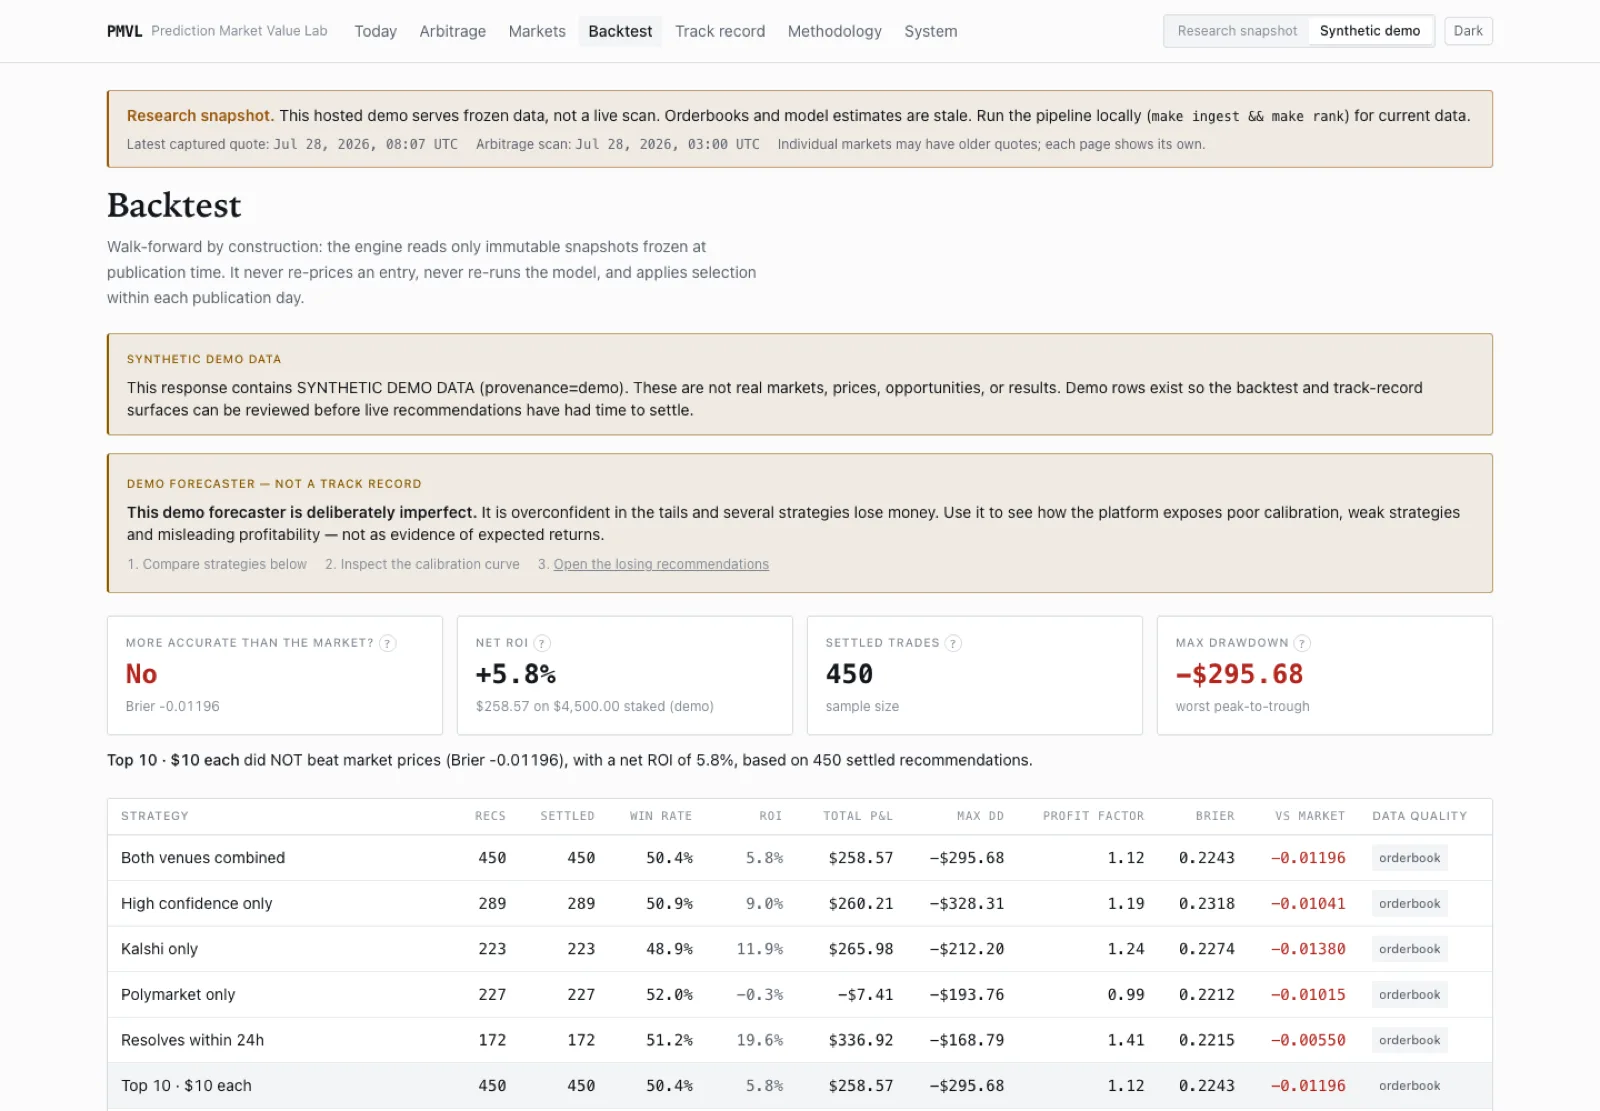
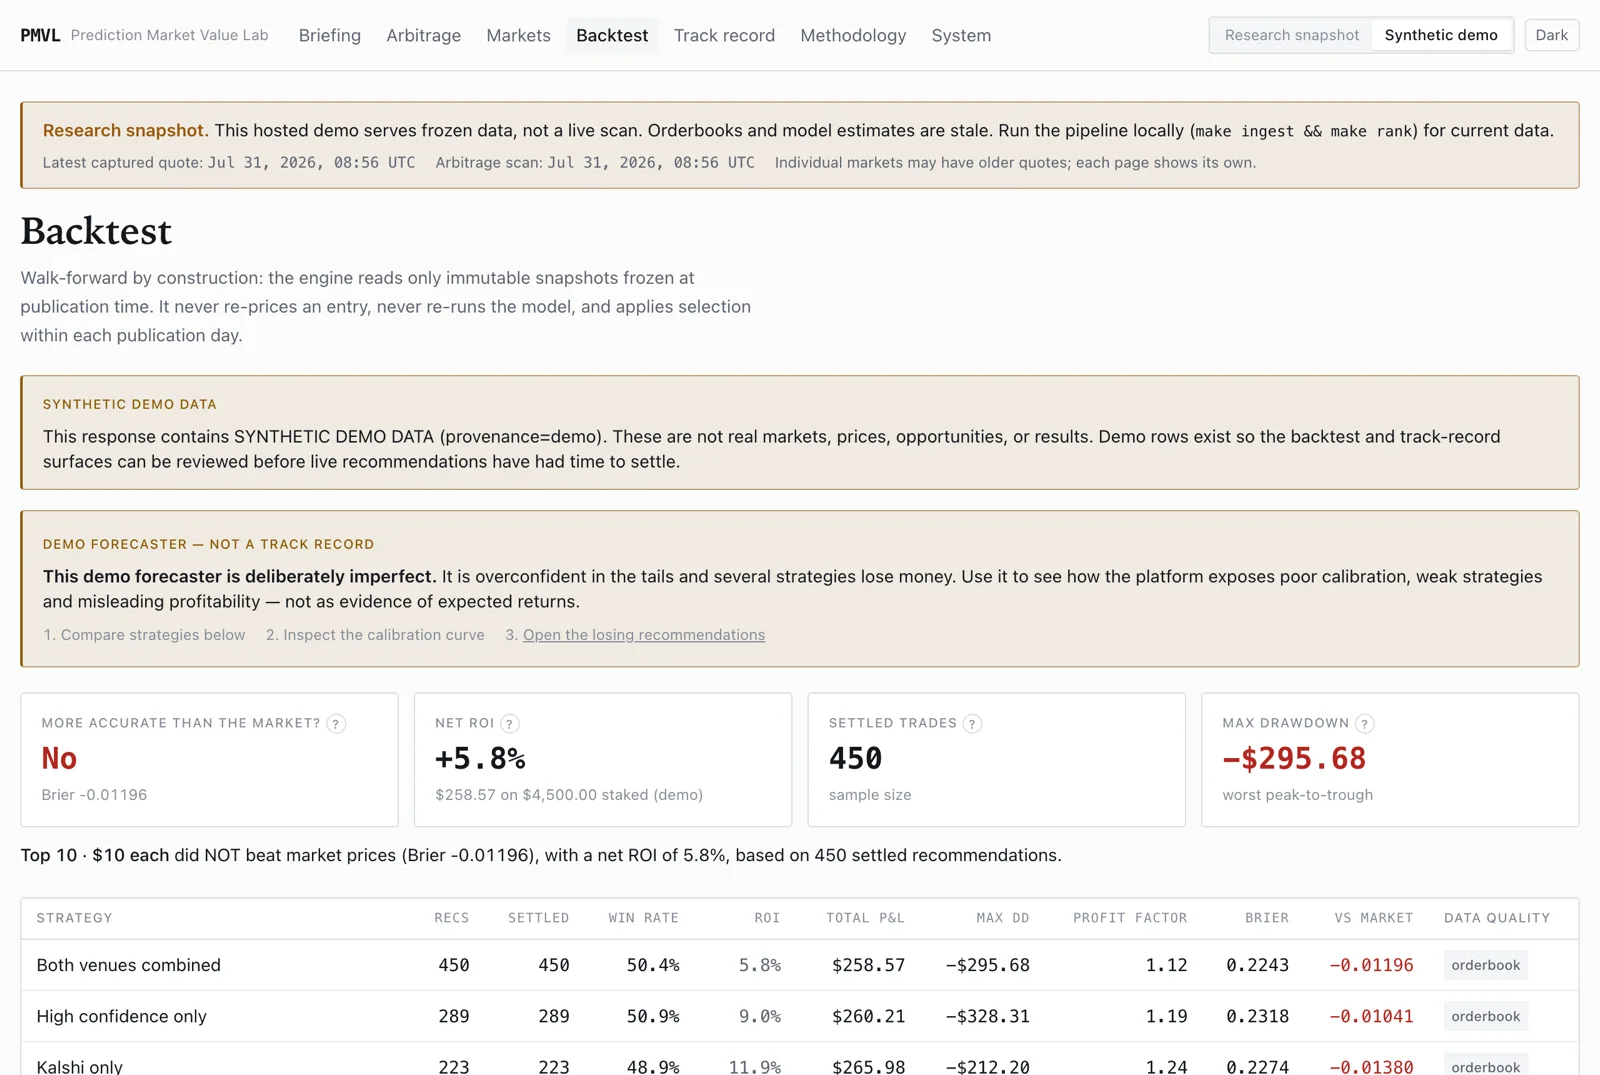
docs: capture homepage screenshots against the Preview build
The six product surfaces embedded in the marketing homepage were seeded from
the PR #8 production set, which predates this change: they showed the old "Today"
navigation label, the pre-move `/` briefing and a 1,858-market snapshot, and one
was a full-page portrait capture that unbalanced its row. They are recaptured
from the Preview at 615933d, all at 1280x860, so each image shows the surface it
names with current data and the navigation this branch ships.

Also adds the review set under docs/screenshots/pr-12: nineteen captures from
the same Preview across light and dark at desktop and mobile, including the
unconfigured-auth states, which are what a reviewer will actually see.

diff --git a/apps/web/app/(site)/page.tsx b/apps/web/app/(site)/page.tsx
@@ -265,8 +265,8 @@ function ProductSurfaces() {
             <ProductShot
               src="/product/briefing.webp"
               alt="The PMVL research briefing: a measurement band showing actionable, watchlist and disagreement counts, followed by ranked opportunity cards and a stage-by-stage filtering funnel."
-              width={997}
-              height={1600}
+              width={1600}
+              height={1075}
               priority
             />
           }
@@ -289,7 +289,7 @@ function ProductSurfaces() {
               src="/product/probability.webp"
               alt="A PMVL market detail page showing market-implied probability, the independent model estimate, its uncertainty interval and the conservative bound, alongside the order-book ladder."
               width={1600}
-              height={1111}
+              height={1075}
             />
           }
         />
@@ -310,7 +310,7 @@ function ProductSurfaces() {
               src="/product/actionable-diagnostics.webp"
               alt="The PMVL arbitrage page with its Actionable and Diagnostics views side by side, each row labelled with its arbitrage kind and risk flags."
               width={1600}
-              height={1143}
+              height={1075}
             />
           }
         />
@@ -332,7 +332,7 @@ function ProductSurfaces() {
               src="/product/markets.webp"
               alt="The PMVL markets table listing contracts from both venues with best bid and ask, spread, order-book depth in dollars, volume and resolution time."
               width={1600}
-              height={1111}
+              height={1075}
             />
           }
         />
@@ -353,7 +353,7 @@ function ProductSurfaces() {
               src="/product/backtest.webp"
               alt="A PMVL backtest page showing settled-bet counts, return, drawdown, Brier score against the market benchmark and a calibration curve."
               width={1600}
-              height={1111}
+              height={1075}
             />
           }
         />
@@ -375,7 +375,7 @@ function ProductSurfaces() {
               src="/product/system.webp"
               alt="The PMVL system page showing runtime mode, deployed commit, snapshot timing, per-job pipeline status and the list of upstream data sources."
               width={1600}
-              height={1111}
+              height={1075}
             />
           }
         />

diff --git a/docs/screenshots/pr-12/README.md b/docs/screenshots/pr-12/README.md
@@ -1,0 +1,36 @@
+# PR #12 review screenshots
+
+All captured from the Vercel Preview at commit `615933d`, against the API
+Preview at the same commit — not from a local dev server and not from
+production. Headless Chrome, `deviceScaleFactor: 2`, then downscaled to 1600px
+wide (1200 for the full-page shot).
+
+Billing and authentication are **not configured** on this Preview, so these show
+the honest unconfigured state: `/sign-in` explains that accounts are not enabled,
+`/account` redirects there, and pricing offers early access rather than checkout.
+
+| File | Route | Viewport | Theme |
+| --- | --- | --- | --- |
+| `home-hero-light-1440.png` | `/` | 1440×900 | light |
+| `home-hero-dark-1440.png` | `/` | 1440×900 | dark |
+| `home-full-light-1280.png` | `/` full page | 1280 | light |
+| `home-mobile-light-390.png` | `/` full page | 390×844 | light |
+| `pricing-light-1440.png` | `/pricing` | 1440 | light |
+| `pricing-dark-1440.png` | `/pricing` | 1440 | dark |
+| `pricing-mobile-390.png` | `/pricing` | 390×844 | light |
+| `sign-in-unconfigured-1440.png` | `/sign-in` | 1440×900 | light |
+| `account-redirect-1440.png` | `/account` → `/sign-in?reason=auth-unavailable` | 1440×900 | light |
+| `risk-disclosure-light-1440.png` | `/risk-disclosure` | 1440 | light |
+| `terms-light-1440.png` | `/terms` | 1440 | light |
+| `privacy-dark-1440.png` | `/privacy` | 1440 | dark |
+| `app-briefing-light-1440.png` | `/app` | 1440 | light |
+| `app-briefing-dark-1440.png` | `/app` | 1440 | dark |
+| `markets-light-1440.png` | `/markets` | 1440 | light |
+| `arbitrage-actionable-1440.png` | `/arbitrage?view=actionable` | 1440 | light |
+| `backtest-demo-1440.png` | `/backtest?mode=demo` | 1440 | light |
+| `system-dark-1440.png` | `/system` | 1440 | dark |
+| `market-630-light-1440.png` | `/market/630` | 1440 | light |
+
+The six product screenshots embedded in the marketing homepage itself live in
+`apps/web/public/product/` and were captured from the same Preview build at
+1280×860.
